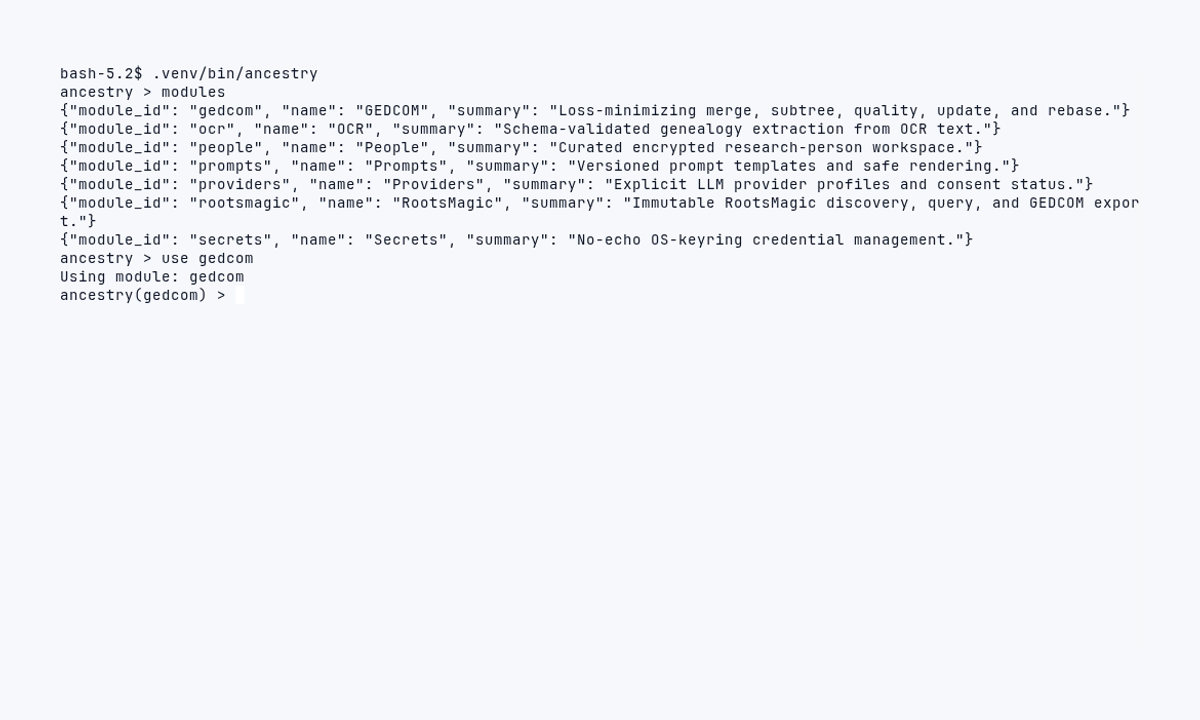
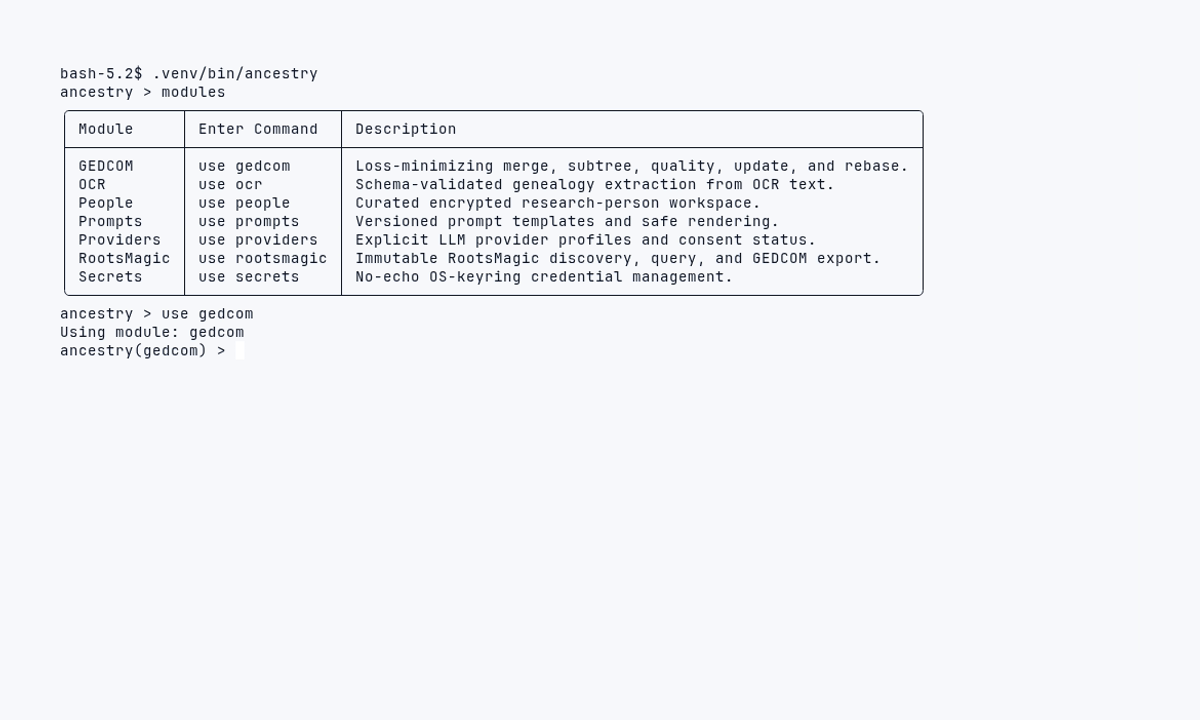
feat(cli): refine module listing (#468)
* feat(cli): refine module listing

* docs: preserve refreshed interactive console screenshot

* docs: regenerate interactive console screenshot on x86_64

Changed region(s): [[0.0308, 0.1222, 0.9558, 0.5194], [0.8942, 0.1528, 0.925, 0.1833], [0.74, 0.3972, 0.7708, 0.4278]]

diff --git a/src/ancestryllm/terminal/presentation.py b/src/ancestryllm/terminal/presentation.py
@@ -7,7 +7,9 @@ from dataclasses import asdict, is_dataclass
 from pathlib import Path
 from typing import TYPE_CHECKING, Any, TextIO, cast
 
+from rich import box
 from rich.console import Console
+from rich.table import Table
 from rich.text import Text
 
 from ancestryllm.application.errors import error_envelope
@@ -86,9 +88,17 @@ class PresentationAdapter:
         self.render(ErrorResult(error_envelope(error)))
 
     def _render_table(self, result: TableResult) -> None:
+        table = Table(
+            box=box.ROUNDED,
+            border_style="bright_black",
+            header_style="bold cyan",
+            highlight=False,
+        )
+        for column in result.columns:
+            table.add_column(_table_heading(column), overflow="fold")
         for row in result.rows:
-            item = dict(zip(result.columns, row, strict=True))
-            self._print_text(json.dumps(item, sort_keys=True))
+            table.add_row(*(Text(_table_cell(cell)) for cell in row))
+        self.console.print(table)
 
     def _render_error_envelope(self, error: ErrorEnvelope) -> None:
         message = f"[{error.code}] {error.message}"
@@ -123,6 +133,27 @@ class PresentationAdapter:
             overflow="ignore",
             crop=False,
         )
+
+
+def _table_heading(column: str) -> str:
+    """Turn a stable snake-case field name into a readable table heading."""
+
+    acronyms = {"id": "ID", "ids": "IDs", "json": "JSON", "url": "URL"}
+    return " ".join(acronyms.get(word.casefold(), word.capitalize()) for word in column.split("_"))
+
+
+def _table_cell(value: Any) -> str:
+    """Format one JSON-compatible table cell for compact human display."""
+
+    if value is None or value == [] or value == {}:
+        return "—"
+    if isinstance(value, bool):
+        return "yes" if value else "no"
+    if isinstance(value, list):
+        return ", ".join(_table_cell(item) for item in value)
+    if isinstance(value, dict):
+        return ", ".join(f"{key}={_table_cell(item)}" for key, item in sorted(value.items()))
+    return str(value)
 
 
 __all__ = ["PresentationAdapter", "to_plain"]

diff --git a/tests/modular/test_repl_shell.py b/tests/modular/test_repl_shell.py
@@ -23,6 +23,7 @@ from prompt_toolkit.completion import DummyCompleter
 from prompt_toolkit.input.defaults import create_pipe_input
 from prompt_toolkit.output import DummyOutput
 
+from ancestryllm.application.results import TableResult
 from ancestryllm.console.router import RouteKind, RouteResult
 from ancestryllm.core.cancellation import cancellation_checkpoint
 from ancestryllm.core.errors import AncestryError
@@ -1694,3 +1695,21 @@ def test_prompt_toolkit_repl_preserves_modules_list_json_schema(
         "required_services",
     }
     assert gedcom["actions"] == ["merge", "subtree", "quality", "sync"]
+
+
+def test_prompt_toolkit_repl_renders_bare_modules_as_a_readable_chooser(
+    shell_module, app_context: AppContext
+) -> None:
+    with create_pipe_input() as pipe:
+        application, stdout, _stderr = _application(shell_module, app_context, pipe)
+        route = application.router.route("modules")
+        asyncio.run(application.execute_line("modules"))
+
+    assert isinstance(route.value, TableResult)
+    rendered = stdout.getvalue()
+    assert "Module" in rendered
+    assert "Enter Command" in rendered
+    assert "Description" in rendered
+    assert "GEDCOM" in rendered
+    assert "use gedcom" in rendered
+    assert '{"module_id":' not in rendered

diff --git a/src/ancestryllm/console/router.py b/src/ancestryllm/console/router.py
@@ -6,6 +6,7 @@ from dataclasses import dataclass, field
 from enum import StrEnum
 from typing import TYPE_CHECKING, Any
 
+from ancestryllm.application.results import TableResult
 from ancestryllm.console.parser import ParsedInvocation, parse_repl_invocation, split_repl_input
 from ancestryllm.console.security import is_secret_name
 from ancestryllm.core.commands import (
@@ -80,12 +81,15 @@ class SessionRouter:
         if control == "help":
             return RouteResult(RouteKind.OUTPUT, self._help(tokens[1:]))
         if control == "modules" and len(tokens) == 1:
+            descriptors = ModuleRegistry(self.context).descriptors()
             return RouteResult(
                 RouteKind.OUTPUT,
-                [
-                    {"module_id": item.module_id, "name": item.name, "summary": item.summary}
-                    for item in ModuleRegistry(self.context).descriptors()
-                ],
+                TableResult(
+                    columns=("module", "enter_command", "description"),
+                    rows=tuple(
+                        (item.name, f"use {item.module_id}", item.summary) for item in descriptors
+                    ),
+                ),
             )
         if control == "use":
             return self._use(tokens)

diff --git a/tests/test_presentation.py b/tests/test_presentation.py
@@ -168,10 +168,6 @@ def test_adapter_explicitly_routes_structured_and_file_artifact_results(
     ("result", "expected"),
     (
         (SuccessResult("[bold]Saved.[/bold]"), "[bold]Saved.[/bold]\n"),
-        (
-            TableResult(columns=("name",), rows=(("[bold]Ada[/bold]",),)),
-            '{"name": "[bold]Ada[/bold]"}\n',
-        ),
         (MarkdownResult("# [bold]Report[/bold]\n"), "# [bold]Report[/bold]\n"),
         (
             WarningResult("RESULT_PARTIAL", "Some records were skipped."),
@@ -204,6 +200,22 @@ def test_adapter_renders_each_declared_result_through_injected_console(
     expected: str,
 ) -> None:
     assert _capture_render(result) == expected
+
+
+def test_adapter_renders_table_as_a_literal_human_readable_grid() -> None:
+    output = _capture_render(
+        TableResult(
+            columns=("name", "available_actions"),
+            rows=(("[bold]Ada[/bold]", ["merge", "quality"]),),
+        )
+    )
+
+    assert "Name" in output
+    assert "Available Actions" in output
+    assert "[bold]Ada[/bold]" in output
+    assert "merge, quality" in output
+    assert '{"name":' not in output
+    assert "╭" in output
 
 
 def test_adapter_renders_json_through_injected_console_without_markup_interpretation() -> None:

diff --git a/docs/CONSOLE.md b/docs/CONSOLE.md
@@ -17,7 +17,9 @@ logic path.
 
 At the root prompt, use `modules` to inspect available modules or `use MODULE`
 to enter a module context. The active-module prompt makes the current context
-visible:
+visible. The bare `modules` command renders a compact chooser with each module's
+display name, `use MODULE` command, and description. For the complete stable
+machine-readable descriptor list, run `modules list --json` instead.
 
 ```text
 ancestry > modules
